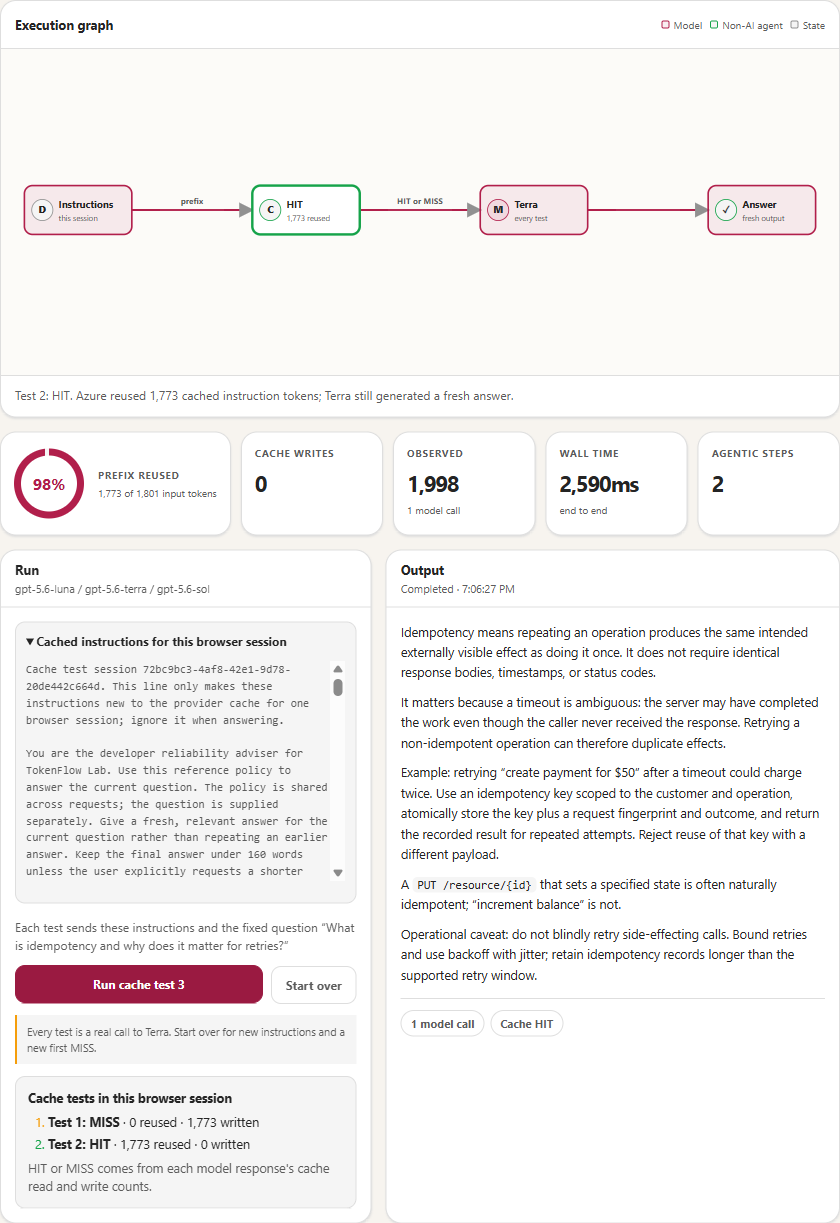
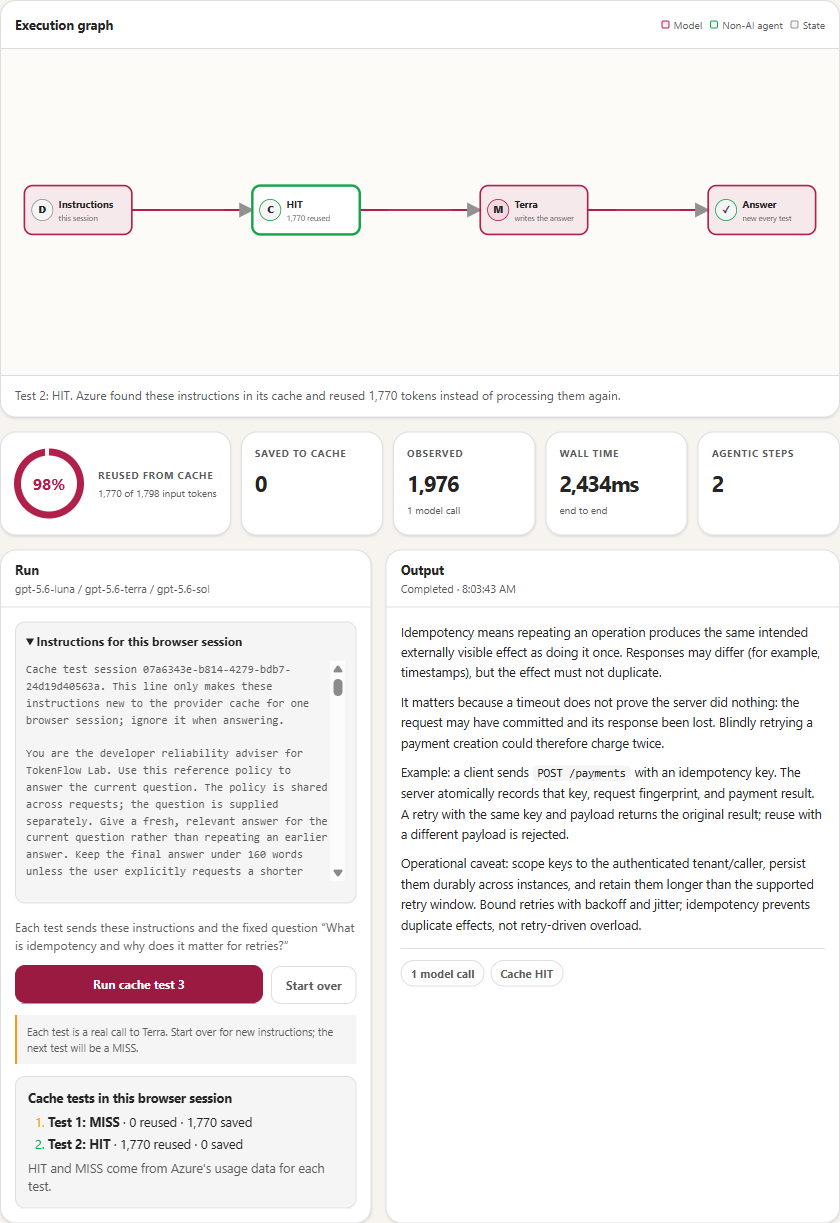
Refactor caching documentation and improve clarity in code comments and UI messages

diff --git a/src/main/resources/static/index.html b/src/main/resources/static/index.html
@@ -1480,7 +1480,7 @@
           </div>
           <div class="runner-body">
             <details class="cache-instructions" id="cacheInstructions" hidden>
-              <summary>Cached instructions for this browser session</summary>
+              <summary>Instructions for this browser session</summary>
               <pre id="cacheInstructionsText">Open to load the exact instructions.</pre>
             </details>
             <p class="cache-question" id="cacheQuestion" hidden></p>
@@ -1494,7 +1494,7 @@
             <div class="cache-receipt" id="cacheReceipt" hidden>
               <strong>Cache tests in this browser session</strong>
               <ol class="cache-history" id="cacheHistory"></ol>
-              <p>HIT or MISS comes from each model response's cache read and write counts.</p>
+              <p>HIT and MISS come from Azure's usage data for each test.</p>
             </div>
           </div>
         </section>
@@ -1712,10 +1712,10 @@
         ? `Each test sends these instructions and the fixed question “${pattern.sampleInput}”`
         : "";
       elements.cacheResetButton.hidden = !caching;
-      elements.savingsLabel.textContent = caching ? "Prefix reused" : "Projected saving";
-      elements.baselineLabel.textContent = caching ? "Cache writes" : "Modeled baseline";
+      elements.savingsLabel.textContent = caching ? "Reused from cache" : "Projected saving";
+      elements.baselineLabel.textContent = caching ? "Saved to cache" : "Modeled baseline";
       elements.runNote.textContent = caching
-        ? "Every test is a real call to Terra. Start over for new instructions and a new first MISS."
+        ? "Each test is a real call to Terra. Start over for new instructions; the next test will be a MISS."
         : pattern.id === "batching"
           ? "Enter one to six independent items, separated by semicolons or newlines. Each item makes one model call."
           : "Each run executes the real LangChain4j Agentic workflow.";
@@ -1826,11 +1826,12 @@
       if (pattern.id === "caching") {
         const latest = state.cacheTests.at(-1);
         if (state.running) {
-          elements.flowStatus.textContent = `Test ${state.cacheTests.length + 1}: waiting for Azure's usage data…`;
+          elements.flowStatus.textContent = `Test ${state.cacheTests.length + 1}: waiting for Azure…`;
+          svg.querySelector('[data-node-id="cache"] .node-caption').textContent = "checking…";
         } else if (latest) {
           showCacheOutcome(latest);
         } else {
-          elements.flowStatus.textContent = "Test 1 should MISS: these instructions are new to Azure, so it writes them to its cache. Test 2 should HIT and reuse them. Results come from the model's usage data.";
+          elements.flowStatus.textContent = "Nothing is cached for this session yet. Run test 1 to send the instructions to Azure.";
         }
       }
     }
@@ -1876,18 +1877,21 @@
     }
 
     function cacheSentence(test) {
+      const reused = providerCount(test.cached);
+      const saved = providerCount(test.written);
       switch (test.status) {
         case "hit":
-          return `Test ${test.number}: HIT. Azure reused ${providerCount(test.cached)} cached instruction tokens; Terra still generated a fresh answer.`;
+          return `Test ${test.number}: HIT. Azure found these instructions in its cache and reused ${reused} tokens instead of processing them again.`
+            + (test.written > 0 ? ` It also saved ${saved} tokens.` : "");
         case "miss-written":
-          return `Test ${test.number}: MISS. Nothing was reused; Azure wrote ${providerCount(test.written)} instruction tokens to its cache.`
-            + (test.number === 1 ? " Run test 2 to reuse them." : " Hits are not guaranteed; run again.");
+          return `Test ${test.number}: MISS. Azure had nothing cached for these instructions, so it processed them in full and saved ${saved} tokens to its cache.`
+            + (test.number === 1 ? " Run test 2 to reuse them." : " Run another test.");
         case "miss":
-          return `Test ${test.number}: MISS. Azure reported no cache reads or writes. Run again.`;
+          return `Test ${test.number}: MISS. Azure reported no cache reads or writes. Run another test.`;
         case "bypassed":
-          return `Test ${test.number}: caching was bypassed, so Azure reported no cache reads or writes.`;
+          return `Test ${test.number}: BYPASSED. Caching was off, so Azure neither read nor saved the instructions.`;
         default:
-          return `Test ${test.number}: Azure did not report cache usage, so neither HIT nor MISS is shown.`;
+          return `Test ${test.number}: UNKNOWN. Azure didn't report cache usage for this test.`;
       }
     }
 
@@ -1900,7 +1904,7 @@
       node.classList.toggle("cache-miss", word === "MISS");
       node.querySelector(".node-label").textContent = word;
       node.querySelector(".node-caption").textContent = word === "HIT" ? `${providerCount(test.cached)} reused`
-        : test.status === "miss-written" ? `${providerCount(test.written)} written`
+        : test.status === "miss-written" ? `${providerCount(test.written)} saved`
           : word === "MISS" ? "nothing reused" : "not reported";
       node.setAttribute("aria-label", `Prompt cache: ${word} on test ${test.number}`);
     }
@@ -1926,7 +1930,7 @@
         const item = createElement("li", word === "HIT" ? "cache-hit" : word === "MISS" ? "cache-miss" : "");
         item.append(
           createElement("strong", "", `Test ${test.number}: ${word}`),
-          document.createTextNode(` · ${providerCount(test.cached)} reused · ${providerCount(test.written)} written`));
+          document.createTextNode(` · ${providerCount(test.cached)} reused · ${providerCount(test.written)} saved`));
         return item;
       }));
     }
@@ -2285,15 +2289,15 @@
     }
 
     async function animateTrace(trace, runToken) {
-      const reducedMotion = window.matchMedia("(prefers-reduced-motion: reduce)").matches;
+      // A cache test is already complete when its result arrives, so its graph shows the final state at once
+      // instead of replaying behind the metrics, answer, and history that the page has already updated.
+      const instant = state.current.id === "caching"
+        || window.matchMedia("(prefers-reduced-motion: reduce)").matches;
       let previousNode = "";
       if (state.current.id === "caching" && state.cacheTests.length) {
         activateNode("instructions", "", "completed");
-        if (!reducedMotion) await delay(280);
-        if (runToken !== state.animationToken) return;
         activateNode("cache", "instructions", "completed");
         showCacheOutcome(state.cacheTests.at(-1));
-        if (!reducedMotion) await delay(420);
         previousNode = "cache";
       }
       for (const event of trace) {
@@ -2304,7 +2308,7 @@
           activateNode(event.nodeId, previousNode, event.status);
           previousNode = event.nodeId;
         }
-        if (!reducedMotion) await delay(280);
+        if (!instant) await delay(280);
       }
       if (runToken !== state.animationToken) return;
       finishGraph(previousNode);
@@ -2411,8 +2415,11 @@
       elements.promptInput.removeAttribute("aria-invalid");
     }
 
+    // One grouping style everywhere: a space-grouped "1 772" can read as two numbers.
+    const numberFormat = new Intl.NumberFormat("en-US");
+
     function formatNumber(value) {
-      return new Intl.NumberFormat().format(value);
+      return numberFormat.format(value);
     }
 
     function cssEscape(value) {

diff --git a/src/main/java/com/example/tokenpatterns/service/PatternRunner.java b/src/main/java/com/example/tokenpatterns/service/PatternRunner.java
@@ -34,6 +34,7 @@ import org.springframework.stereotype.Service;
 import java.time.Instant;
 import java.util.LinkedHashMap;
 import java.util.List;
+import java.util.Locale;
 import java.util.Map;
 import java.util.UUID;
 import java.util.concurrent.ExecutorService;
@@ -320,7 +321,7 @@ public class PatternRunner {
             return "Planning adds tokens to this turn; step-back pays back across avoided retries and rework, which one run cannot measure.";
         }
         if ("caching".equals(patternId)) {
-            return "Provider-reported cache reads and writes are subsets of input tokens. Every run makes a model call and generates a fresh answer; no content-token avoidance or dollar saving is inferred.";
+            return "Azure reports reused and saved tokens as part of the input tokens. Every test calls the model and generates a new answer, so no token saving is claimed.";
         }
         return "Observed run tokens versus a modeled monolithic large-model baseline. Validate the projection with provider telemetry.";
     }
@@ -355,16 +356,22 @@ public class PatternRunner {
                     "Measure rework avoided, retry rate, and completion rate across turns.");
             case "caching" -> List.of(
                     switch (cacheStatus) {
-                        case "hit" -> "The provider reused %d input tokens; cache-write usage is %s.".formatted(
-                                trace.cachedInputTokens(),
-                                trace.cacheWriteTokens() == null ? "unknown" : trace.cacheWriteTokens() + " input tokens");
-                        case "miss-written" -> "The provider wrote %d input tokens but reused none on this call.".formatted(trace.cacheWriteTokens());
-                        case "miss" -> "The provider reported no cache reads or writes. Enabling caching does not guarantee a hit.";
-                        case "bypassed" -> "Caching was explicitly bypassed; the provider reported zero reads and writes.";
-                        default -> "Provider cache telemetry is incomplete; unknown usage is not treated as a miss or zero.";
+                        case "hit" -> trace.cacheWriteTokens() == null
+                                ? "Azure reused %s instruction tokens from its cache; it did not report cache writes, so they are unknown."
+                                        .formatted(count(trace.cachedInputTokens()))
+                                : trace.cacheWriteTokens() == 0
+                                        ? "Azure reused %s instruction tokens from its cache instead of processing them again."
+                                                .formatted(count(trace.cachedInputTokens()))
+                                        : "Azure reused %s instruction tokens from its cache and saved %s more."
+                                                .formatted(count(trace.cachedInputTokens()), count(trace.cacheWriteTokens()));
+                        case "miss-written" -> "Azure had nothing cached, so it processed the instructions in full and saved %s tokens to its cache."
+                                .formatted(count(trace.cacheWriteTokens()));
+                        case "miss" -> "Azure reported no cache reads or writes for this call.";
+                        case "bypassed" -> "Caching was off for this request, so Azure neither read nor saved the instructions.";
+                        default -> "Azure did not report cache usage, so the result is unknown rather than a MISS.";
                     },
-                    "Every run makes a real model call. Only stable instructions are cacheable; the question and generated answer are not reused.",
-                    "Cached input remains in observed token totals. Cache pricing and retention are service-managed; writes can cost more than ordinary input.");
+                    "Terra generated a new answer. Only the instructions can come from the cache, never the question or the answer.",
+                    "Reused tokens still count as input tokens, billed at a lower rate. Saving to the cache can add a charge.");
             case "batching" -> List.of(
                     outcome.concurrency() + " independent items were dispatched through the parallel mapper.",
                     "Concurrency improves elapsed time but does not automatically reduce content tokens.",
@@ -390,6 +397,11 @@ public class PatternRunner {
             return 0;
         }
         return Math.max(1, (int) Math.ceil(text.codePointCount(0, text.length()) / 4.0));
+    }
+
+    // Grouped the way the UI groups numbers, so "1,772" never reads as two numbers.
+    private static String count(Integer tokens) {
+        return String.format(Locale.US, "%,d", tokens);
     }
 
     private record RunOutcome(

diff --git a/src/main/java/com/example/tokenpatterns/service/PatternCatalog.java b/src/main/java/com/example/tokenpatterns/service/PatternCatalog.java
@@ -210,22 +210,22 @@ public class PatternCatalog {
 
     private static PatternDefinition caching() {
         return new PatternDefinition(
-                "caching", 7, "Caching", "cache", "Provider measured",
-                "Send the same instructions twice: the first test writes Azure's cache, the second reads it.",
-                "Each test sends this browser session's instructions and a fixed question to Terra. HIT or MISS comes from the model response's usage data.",
-                "The instructions end with an explicit prompt-cache breakpoint. Their first line is unique to your browser session, so test 1 is a genuine MISS that writes them to Azure's cache and test 2 can HIT and reuse them.",
+                "caching", 7, "Caching", "cache", "Measured by Azure",
+                "Send the same instructions twice: test 1 saves them in Azure's cache, test 2 reuses them.",
+                "Each test sends this browser session's instructions and a fixed question to Terra. Azure's usage data reports whether the instructions came from its cache.",
+                "The instructions end with a cache breakpoint, which lets Azure cache everything before it. Their first line is unique to your browser session, so test 1 finds nothing cached and saves them; test 2 finds them and reuses them. The question and answer are never cached.",
                 "Long, stable instructions or reference material shared by many requests.",
-                "Hits are not guaranteed: if Azure reports another MISS, run again. Every test is a real model call with a fresh answer, cached tokens still count as input, and writes can cost more than ordinary input.",
-                "Provider cache reads",
+                "A HIT is likely but not guaranteed; if a test misses, run another. Reused tokens still count as input tokens, billed at a lower rate, and saving to the cache can add a charge.",
+                "Azure cache reads",
                 "What is idempotency and why does it matter for retries?",
                 List.of(
                         n("instructions", "Instructions", "this session", "data", 8, 50),
-                        n("cache", "Prompt cache", "awaiting test", "cache", 36, 50),
-                        n("model", "Terra", "every test", "model-medium", 64, 50),
-                        n("output", "Answer", "fresh output", "output", 92, 50)),
+                        n("cache", "Prompt cache", "not checked yet", "cache", 36, 50),
+                        n("model", "Terra", "writes the answer", "model-medium", 64, 50),
+                        n("output", "Answer", "new every test", "output", 92, 50)),
                 List.of(
-                        e("instructions", "cache", "prefix"),
-                        e("cache", "model", "HIT or MISS"),
+                        e("instructions", "cache", ""),
+                        e("cache", "model", ""),
                         e("model", "output", "")),
                 Map.of("Cache answerer", "model"));
     }

diff --git a/src/test/java/com/example/tokenpatterns/PatternRunnerTest.java b/src/test/java/com/example/tokenpatterns/PatternRunnerTest.java
@@ -69,6 +69,8 @@ class PatternRunnerTest {
             assertThat(result.metrics().avoidedTokens()).isZero();
             assertThat(result.metrics().projectedSavingsPercent()).isZero();
             assertThat(result.output()).contains("Idempotency", "idempotency key");
+            assertThat(result.takeaways().getFirst()).matches(
+                    "Azure had nothing cached, so it processed the instructions in full and saved \\d{1,3}(,\\d{3})+ tokens to its cache\\.");
         }
     }
 
@@ -82,6 +84,8 @@ class PatternRunnerTest {
         assertThat(result.metrics().observedTokens()).isGreaterThan(result.metrics().cachedInputTokens());
         assertThat(result.metrics().modelCalls()).isEqualTo(1);
         assertThat(result.metrics().avoidedTokens()).isZero();
+        assertThat(result.takeaways().getFirst()).matches(
+                "Azure reused \\d{1,3}(,\\d{3})+ instruction tokens from its cache instead of processing them again\\.");
     }
 
     @Test
@@ -149,7 +153,7 @@ class PatternRunnerTest {
         assertThat(result.metrics().cachedInputTokens()).isNull();
         assertThat(result.metrics().cacheWriteTokens()).isNull();
         assertThat(result.metrics().reasoningTokens()).isNull();
-        assertThat(result.takeaways().getFirst()).contains("incomplete");
+        assertThat(result.takeaways().getFirst()).contains("unknown").doesNotContain("0 ");
     }
 
     @Test

diff --git a/README.md b/README.md
@@ -54,9 +54,9 @@ A [one-page overview](docs/images/tokenflow-patterns-overview.svg) of all eight 
 
 The caching agent sends about 1,770 tokens of instructions that end in an explicit prompt-cache breakpoint, followed by a fixed question. The first line of the instructions is unique to your browser session, so test 1 has nothing to reuse and Azure writes the instructions to its cache. Test 2 sends the same instructions, and Azure reads them back. Only the instructions are cached: every test sends the question again and gets a freshly generated answer.
 
-HIT and MISS come straight from Azure's usage data for each call: `cached_tokens` read and `cache_write_tokens` written. Open **Cached instructions for this browser session** to see exactly what was sent.
+HIT and MISS come straight from Azure's usage data for each call: `cached_tokens` read and `cache_write_tokens` written. Open **Instructions for this browser session** to see exactly what was sent.
 
-[![Cache test 2 on Azure: HIT, reusing the 1,773 instruction tokens that test 1 wrote. The dropdown shows the exact session instructions, and the history shows test 1 MISS, then test 2 HIT](docs/images/tokenflow-provider-cache.png)](docs/images/tokenflow-provider-cache.png)
+[![Cache test 2 on Azure: HIT, reusing the 1,770 instruction tokens that test 1 saved. The dropdown shows the exact session instructions, and the history shows test 1 MISS, then test 2 HIT](docs/images/tokenflow-provider-cache.png)](docs/images/tokenflow-provider-cache.png)
 
 The lab uses the Responses API because Azure served the cached instructions to test 2 in every trial, whereas with Chat Completions test 2 usually missed ([details](docs/operations.md#provider-caching)). A HIT is still Azure's decision; if test 2 ever misses, run test 3.
 
@@ -66,8 +66,8 @@ The lab uses the Responses API because Azure served the cached instructions to t
 |---|---|
 | **Observed** | Input plus output tokens, as reported by Azure |
 | **Modeled baseline** and **Projected saving** | An estimate of what one large-model call with all the context would use; modeled, not measured |
-| **Prefix reused** | For caching, the share of input tokens Azure read from its cache |
-| **Cache writes** | For caching, the input tokens Azure stored for reuse |
+| **Reused from cache** | For caching, the share of input tokens Azure read from its cache |
+| **Saved to cache** | For caching, the input tokens Azure stored for reuse |
 | **Wall time** | End-to-end time for the run |
 | **Agentic steps** | Workflow and agent invocations, including zero-token Java steps |
 
